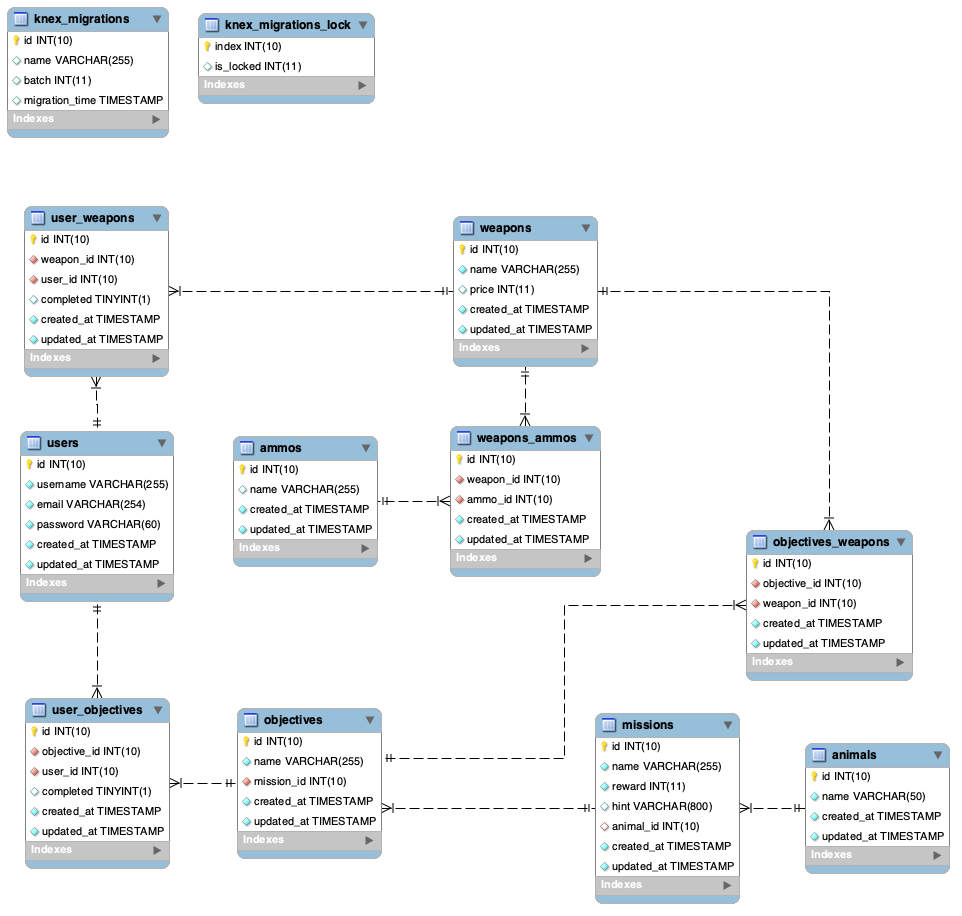
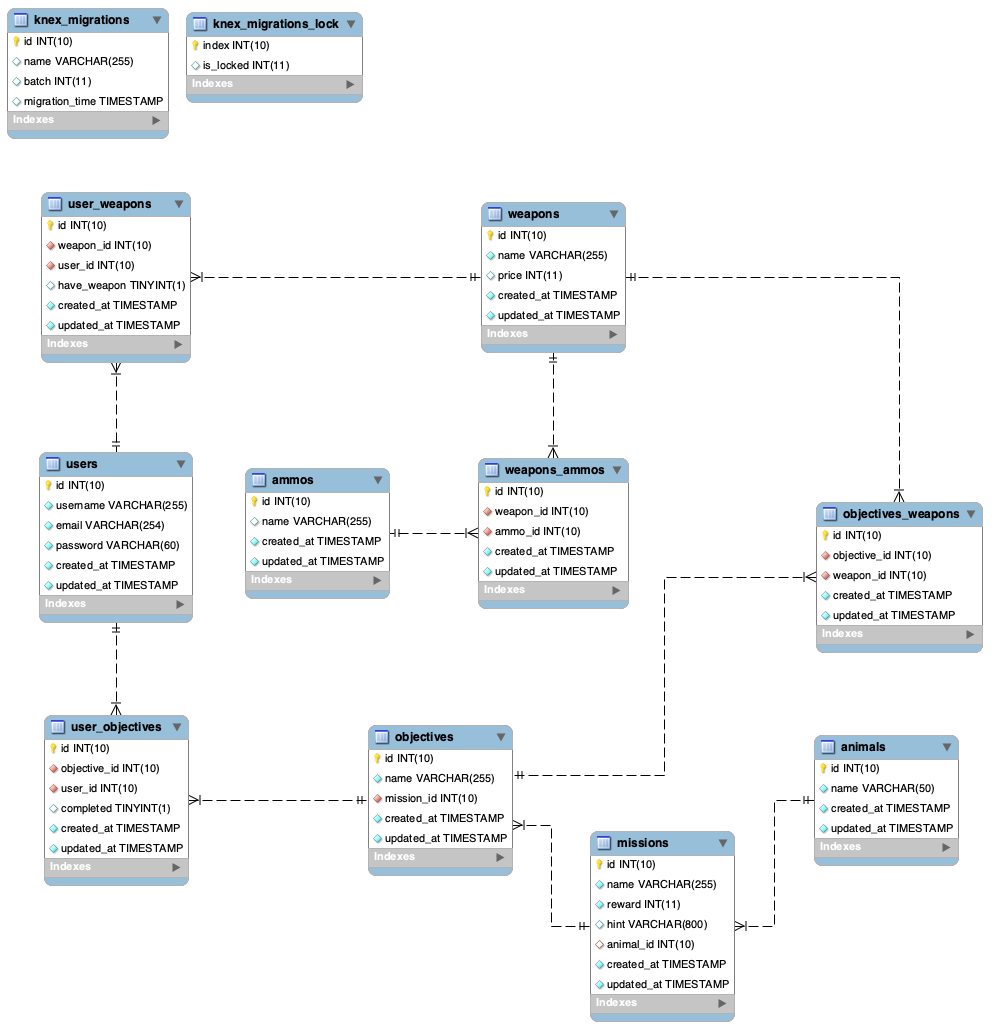
Update objective schema

diff --git a/api/Controllers/LastMissionController.js b/api/Controllers/LastMissionController.js
@@ -8,11 +8,19 @@ module.exports = {
         const animals = await Animal.query()
             .withGraphFetched('missions.objectives')
             .modifyGraph('missions.objectives', (builder) => {
-                builder.select('objectives.*', 'user_objectives.user_id', 'user_objectives.completed')
+                builder.select('objectives.*', 'user_objectives.user_id', 'user_objectives.completed', 'weapons.id as weapon_id', 'user_weapons.have_weapon')
                     // eslint-disable-next-line func-names
                     .leftJoin('user_objectives', function () {
                         this.on('objectives.id', 'user_objectives.objective_id')
                             .on('user_objectives.user_id', user.id);
+                    })
+                    // eslint-disable-next-line func-names
+                    .leftJoin('objectives_weapons', 'objectives_weapons.objective_id', 'objectives.id')
+                    .leftJoin('weapons', 'weapons.id', 'objectives_weapons.weapon_id')
+                    // eslint-disable-next-line func-names
+                    .leftJoin('user_weapons', function () {
+                        this.on('user_weapons.weapon_id', 'weapons.id')
+                            .on('user_weapons.user_id', user.id);
                     });
             });
 
@@ -26,11 +34,19 @@ module.exports = {
         const animal = await Animal.query()
             .withGraphFetched('missions.objectives')
             .modifyGraph('missions.objectives', (builder) => {
-                builder.select('objectives.*', 'user_objectives.user_id', 'user_objectives.completed')
+                builder.select('objectives.*', 'user_objectives.user_id', 'user_objectives.completed', 'weapons.id as weapon_id', 'user_weapons.have_weapon')
                     // eslint-disable-next-line func-names
                     .leftJoin('user_objectives', function () {
                         this.on('objectives.id', 'user_objectives.objective_id')
                             .on('user_objectives.user_id', user.id);
+                    })
+                    // eslint-disable-next-line func-names
+                    .leftJoin('objectives_weapons', 'objectives_weapons.objective_id', 'objectives.id')
+                    .leftJoin('weapons', 'weapons.id', 'objectives_weapons.weapon_id')
+                    // eslint-disable-next-line func-names
+                    .leftJoin('user_weapons', function () {
+                        this.on('user_weapons.weapon_id', 'weapons.id')
+                            .on('user_weapons.user_id', user.id);
                     });
             })
             .where('animals.id', id)

diff --git a/api/Controllers/ObjectiveController.js b/api/Controllers/ObjectiveController.js
@@ -6,11 +6,19 @@ module.exports = {
         const { user } = req.auth;
 
         const objectives = await Objective.query()
-            .select('objectives.*', 'user_objectives.user_id', 'user_objectives.completed')
+            .select('objectives.*', 'user_objectives.user_id', 'user_objectives.completed', 'weapons.id as weapon_id', 'user_weapons.have_weapon')
             // eslint-disable-next-line func-names
             .leftJoin('user_objectives', function () {
                 this.on('objectives.id', 'user_objectives.objective_id')
                     .on('user_objectives.user_id', user.id);
+            })
+            // eslint-disable-next-line func-names
+            .leftJoin('objectives_weapons', 'objectives_weapons.objective_id', 'objectives.id')
+            .leftJoin('weapons', 'weapons.id', 'objectives_weapons.weapon_id')
+            // eslint-disable-next-line func-names
+            .leftJoin('user_weapons', function () {
+                this.on('user_weapons.weapon_id', 'weapons.id')
+                    .on('user_weapons.user_id', user.id);
             });
 
         return res.json(objectives);
@@ -21,11 +29,19 @@ module.exports = {
         const { user } = req.auth;
 
         const objective = await Objective.query()
-            .select('objectives.*', 'user_objectives.user_id', 'user_objectives.completed')
+            .select('objectives.*', 'user_objectives.user_id', 'user_objectives.completed', 'weapons.id as weapon_id', 'user_weapons.have_weapon')
             // eslint-disable-next-line func-names
             .leftJoin('user_objectives', function () {
                 this.on('objectives.id', 'user_objectives.objective_id')
                     .on('user_objectives.user_id', user.id);
+            })
+            // eslint-disable-next-line func-names
+            .leftJoin('objectives_weapons', 'objectives_weapons.objective_id', 'objectives.id')
+            .leftJoin('weapons', 'weapons.id', 'objectives_weapons.weapon_id')
+            // eslint-disable-next-line func-names
+            .leftJoin('user_weapons', function () {
+                this.on('user_weapons.weapon_id', 'weapons.id')
+                    .on('user_weapons.user_id', user.id);
             })
             .where('objectives.id', id)
             .first();

diff --git a/tests/integration/objective.spec.js b/tests/integration/objective.spec.js
@@ -44,7 +44,7 @@ describe('Objectives Index', () => {
             .set('Authorization', user.accessToken);
 
         expect(response.status).toBe(200);
-        expect(response.body).toHaveLength(981);
+        expect(response.body).toHaveLength(987);
 
         const testSchema = {
             $ref: 'objective#/definitions/arrayOfObjectives',
@@ -52,8 +52,6 @@ describe('Objectives Index', () => {
 
         expect(testSchema).toBeValidSchema();
         expect(response.body).toMatchSchema(testSchema);
-
-        expect(response.body).toHaveLength(981);
     });
 
     it('should validate JWT token', async () => {

diff --git a/tests/integration/weapon.spec.js b/tests/integration/weapon.spec.js
@@ -40,7 +40,7 @@ describe('Weapons Index', () => {
             .set('Authorization', `Bearer ${token}`);
 
         expect(response.status).toBe(200);
-        expect(response.body).toHaveLength(38);
+        expect(response.body).toHaveLength(55);
 
         const testSchema = {
             $ref: 'weapon#/definitions/arrayOfWeapons',

diff --git a/database/migrations/20200427125323_user_weapon.js b/database/migrations/20200427125323_user_weapon.js
@@ -8,7 +8,7 @@ exports.up = function up(knex) {
         table.integer('user_id')
             .unsigned()
             .notNullable();
-        table.boolean('completed')
+        table.boolean('have_weapon')
             .defaultTo(false);
         table.timestamps(true, true);
 
